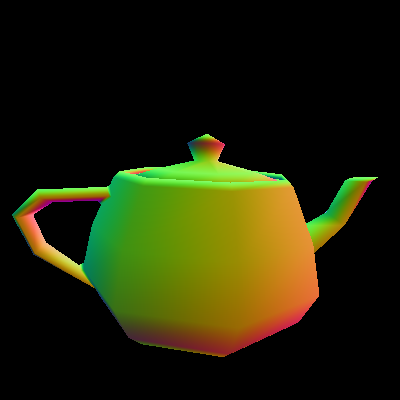
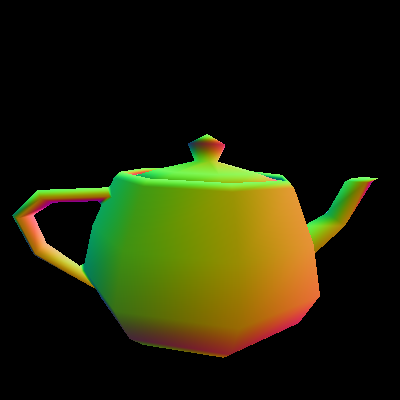
Draw Triangle Vectorized

diff --git a/renderer.py b/renderer.py
@@ -1,5 +1,6 @@
+import time
 from math import floor, ceil
-
+from multiprocessing import Pool, get_context
 import numpy as np
 from objects import *
 from viewport import *
@@ -92,42 +93,51 @@ def draw_triangle(triangle: Triangle, data_buffer: np.ndarray, view_dist: float,
     y_max = min(ceil(max(y0, y1, y2)), height-1)
     y_min = max(floor(min(y0, y1, y2)), 0)
 
-    # Loop over the bounding box
-    for y in range(y_min, y_max + 1): # Can be parralellized (for each row for example)
-        for x in range(x_min, x_max + 1):
-            px = x + 0.5 ; py = y + 0.5
-            e0 = (x1 - px)*(y2 - py) - (x2 - px)*(y1 - py)
-            e1 = (x2 - px)*(y0 - py) - (x0 - px)*(y2 - py)
-            e2 = (x0 - px)*(y1 - py) - (x1 - px)*(y0 - py)
+    # Create a matrix of all the pixels in the bounding box
+    xs = np.arange(x_min, x_max + 1)
+    ys = np.arange(y_min, y_max + 1)
+    px, py = np.meshgrid(xs, ys)
 
-            # Check if the pixel is inside the triangle
-            if (e0 >= 0 and e1 >= 0 and e2 >= 0) or (e0 <= 0 and e1 <= 0 and e2 <= 0):
-                # Barycentric weights
-                w0 = e0/area
-                w1 = e1/area
-                w2 = 1-w0-w1
+    e0 = (x1 - px) * (y2 - py) - (x2 - px) * (y1 - py)
+    e1 = (x2 - px) * (y0 - py) - (x0 - px) * (y2 - py)
+    e2 = (x0 - px) * (y1 - py) - (x1 - px) * (y0 - py)
 
-                inv_z = w0*z0 + w1*z1 + w2*z2
+    # Check if each pixel is inside the triangle -> boolean mask of the pixels inside
+    inside = ((e0 >= 0) & (e1 >= 0) & (e2 >= 0)) | ((e0 <= 0) & (e1 <= 0) & (e2 <= 0))
 
-                if data_buffer[y, x, 3] >= inv_z:
-                    continue
+    # Barycentric weights
+    w0 = e0 / area
+    w1 = e1 / area
+    w2 = 1.0 - w0 - w1
 
-                u = (w0*u0 + w1*u1 + w2*u2) / inv_z
-                v = (w0*v0 + w1*v1 + w2*v2) / inv_z
-                if smooth:
-                    if smooth:
-                        n = w0 * n0 + w1 * n1 + w2 * n2
-                        n = n / np.linalg.norm(n)
-                        normal_encoded = (n + 1) * 0.5
-                    else:
-                        normal_encoded = (triangle.P0_n + 1) * 0.5
-                else:
-                    normal_encoded = (triangle.P0_n + 1) * 0.5
+    inv_z = w0 * z0 + w1 * z1 + w2 * z2 # depth mask
 
-                data_buffer[y, x, 0:3] = normal_encoded
-                data_buffer[y, x, 3] = inv_z
-                data_buffer[y, x, 4:6] = [u, v]
-                data_buffer[y, x, 6] = mat_id
+    region = data_buffer[y_min:y_max + 1, x_min:x_max + 1] # The region of the DB inside the bounding box
+    write = inside & (inv_z > region[: , :, 3]) # The pixels that are inside the triangle and above the last depth value
+
+    u = (w0 * u0 + w1 * u1 + w2 * u2) / inv_z
+    v = (w0 * v0 + w1 * v1 + w2 * v2) / inv_z
+
+    if smooth: # Smooth normals
+        # each component is a 2D array; stack into (H_box, W_box, 3)
+        n = np.stack([
+            w0 * n0[0] + w1 * n1[0] + w2 * n2[0],
+            w0 * n0[1] + w1 * n1[1] + w2 * n2[1],
+            w0 * n0[2] + w1 * n1[2] + w2 * n2[2],
+        ], axis=-1) # Stack the normal vectors along the third axis, axis=-1 means stack along the last axis
+        length = np.linalg.norm(n, axis=-1, keepdims=True) # Get the length of each normal vector, keepdims to keep the same shape as n
+        length[length == 0] = 1.0 # Avoid division by zero
+        normal_encoded = (n / length + 1) * 0.5
+
+    # Write the triangle's data into the G-buffer'
+    region[write, 3] = inv_z[write] # Write only where write is True
+    region[write, 4] = u[write]
+    region[write, 5] = v[write]
+    region[write, 6] = mat_id
+    if smooth:
+        region[write, 0:3] = normal_encoded[write]
+    else:
+        region[write, 0:3] = (np.asarray(triangle.P0_n) + 1) * 0.5
 
 
 def draw_wireframe_triangle(triangle: Triangle, image: np.ndarray) -> None:
@@ -328,6 +338,7 @@ def render(viewport: 'Viewport', width: int, height: int, post_process: list = [
     :param post_process: Ordered list of PostProcess materials to apply after shading
     :return:             Tuple of (image, data_buffer) — both np.ndarray
     """
+    t = time.time()
     materials    = MaterialRegistry()
     image        = np.zeros((height, width, 3))
     data_buffer  = np.zeros((height, width, 7))
@@ -347,7 +358,9 @@ def render(viewport: 'Viewport', width: int, height: int, post_process: list = [
             materials.register(instance.mat)
             render_instance(instance, viewport, data_buffer, width, height, DEBUG)
             i += 1
-            
+
+    print(f"Pass 1 time: {time.time() - t:.2f}s")
+    t = time.time()
     print("Pass 2 : Shading & Material")
     # Pass 2 — Shading: resolve each pixel's material and shade it
     for x in range(len(data_buffer)):
@@ -359,6 +372,8 @@ def render(viewport: 'Viewport', width: int, height: int, post_process: list = [
                     material    = materials.get(material_id)
                     draw_pixel(material, image, data_buffer, x, y, viewport.camera)
 
+    print(f"Pass 2 time: {time.time() - t:.2f}s")
+    t = time.time()
     print("Pass 3 : Post-process")
     # Pass 3 — Post-process: apply screen-space effects in order
     for x in range(len(data_buffer)):
@@ -368,6 +383,7 @@ def render(viewport: 'Viewport', width: int, height: int, post_process: list = [
                 
     # Gamma correction
     image = image ** (1/viewport.camera.gamma)
+    print(f"Pass 3 time: {time.time() - t:.2f}s")
 
     return image, data_buffer
 
